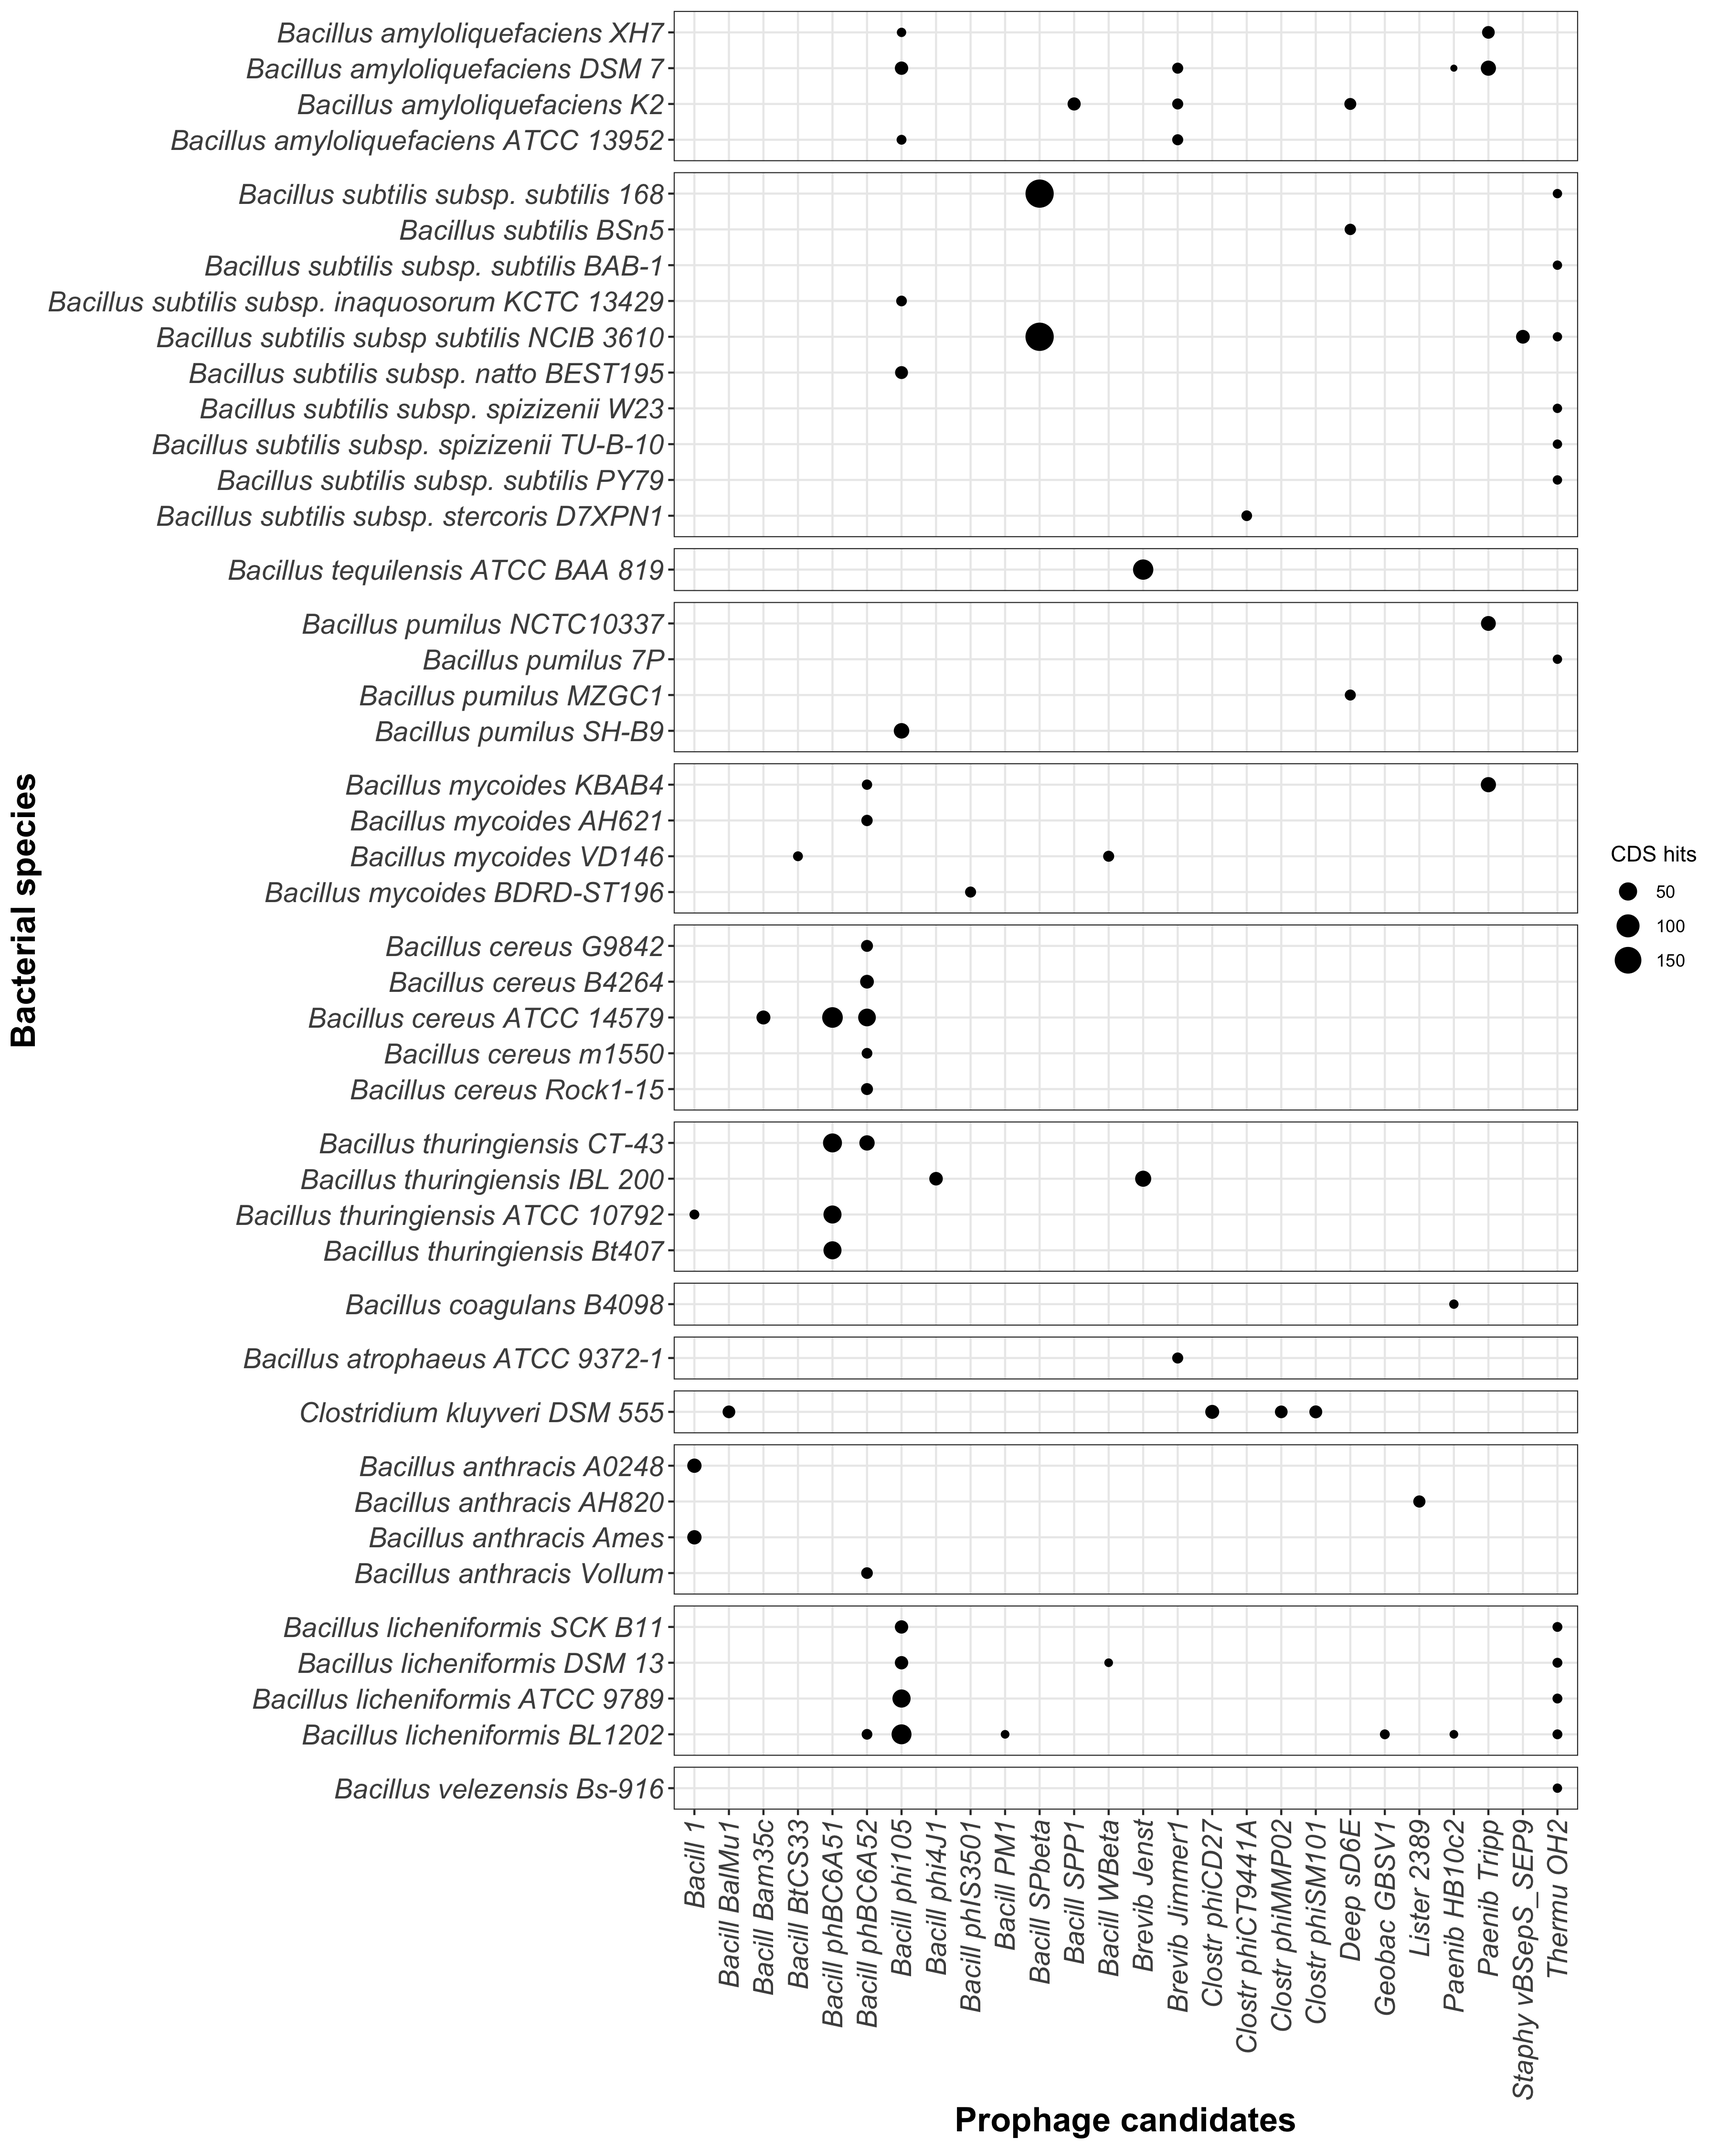
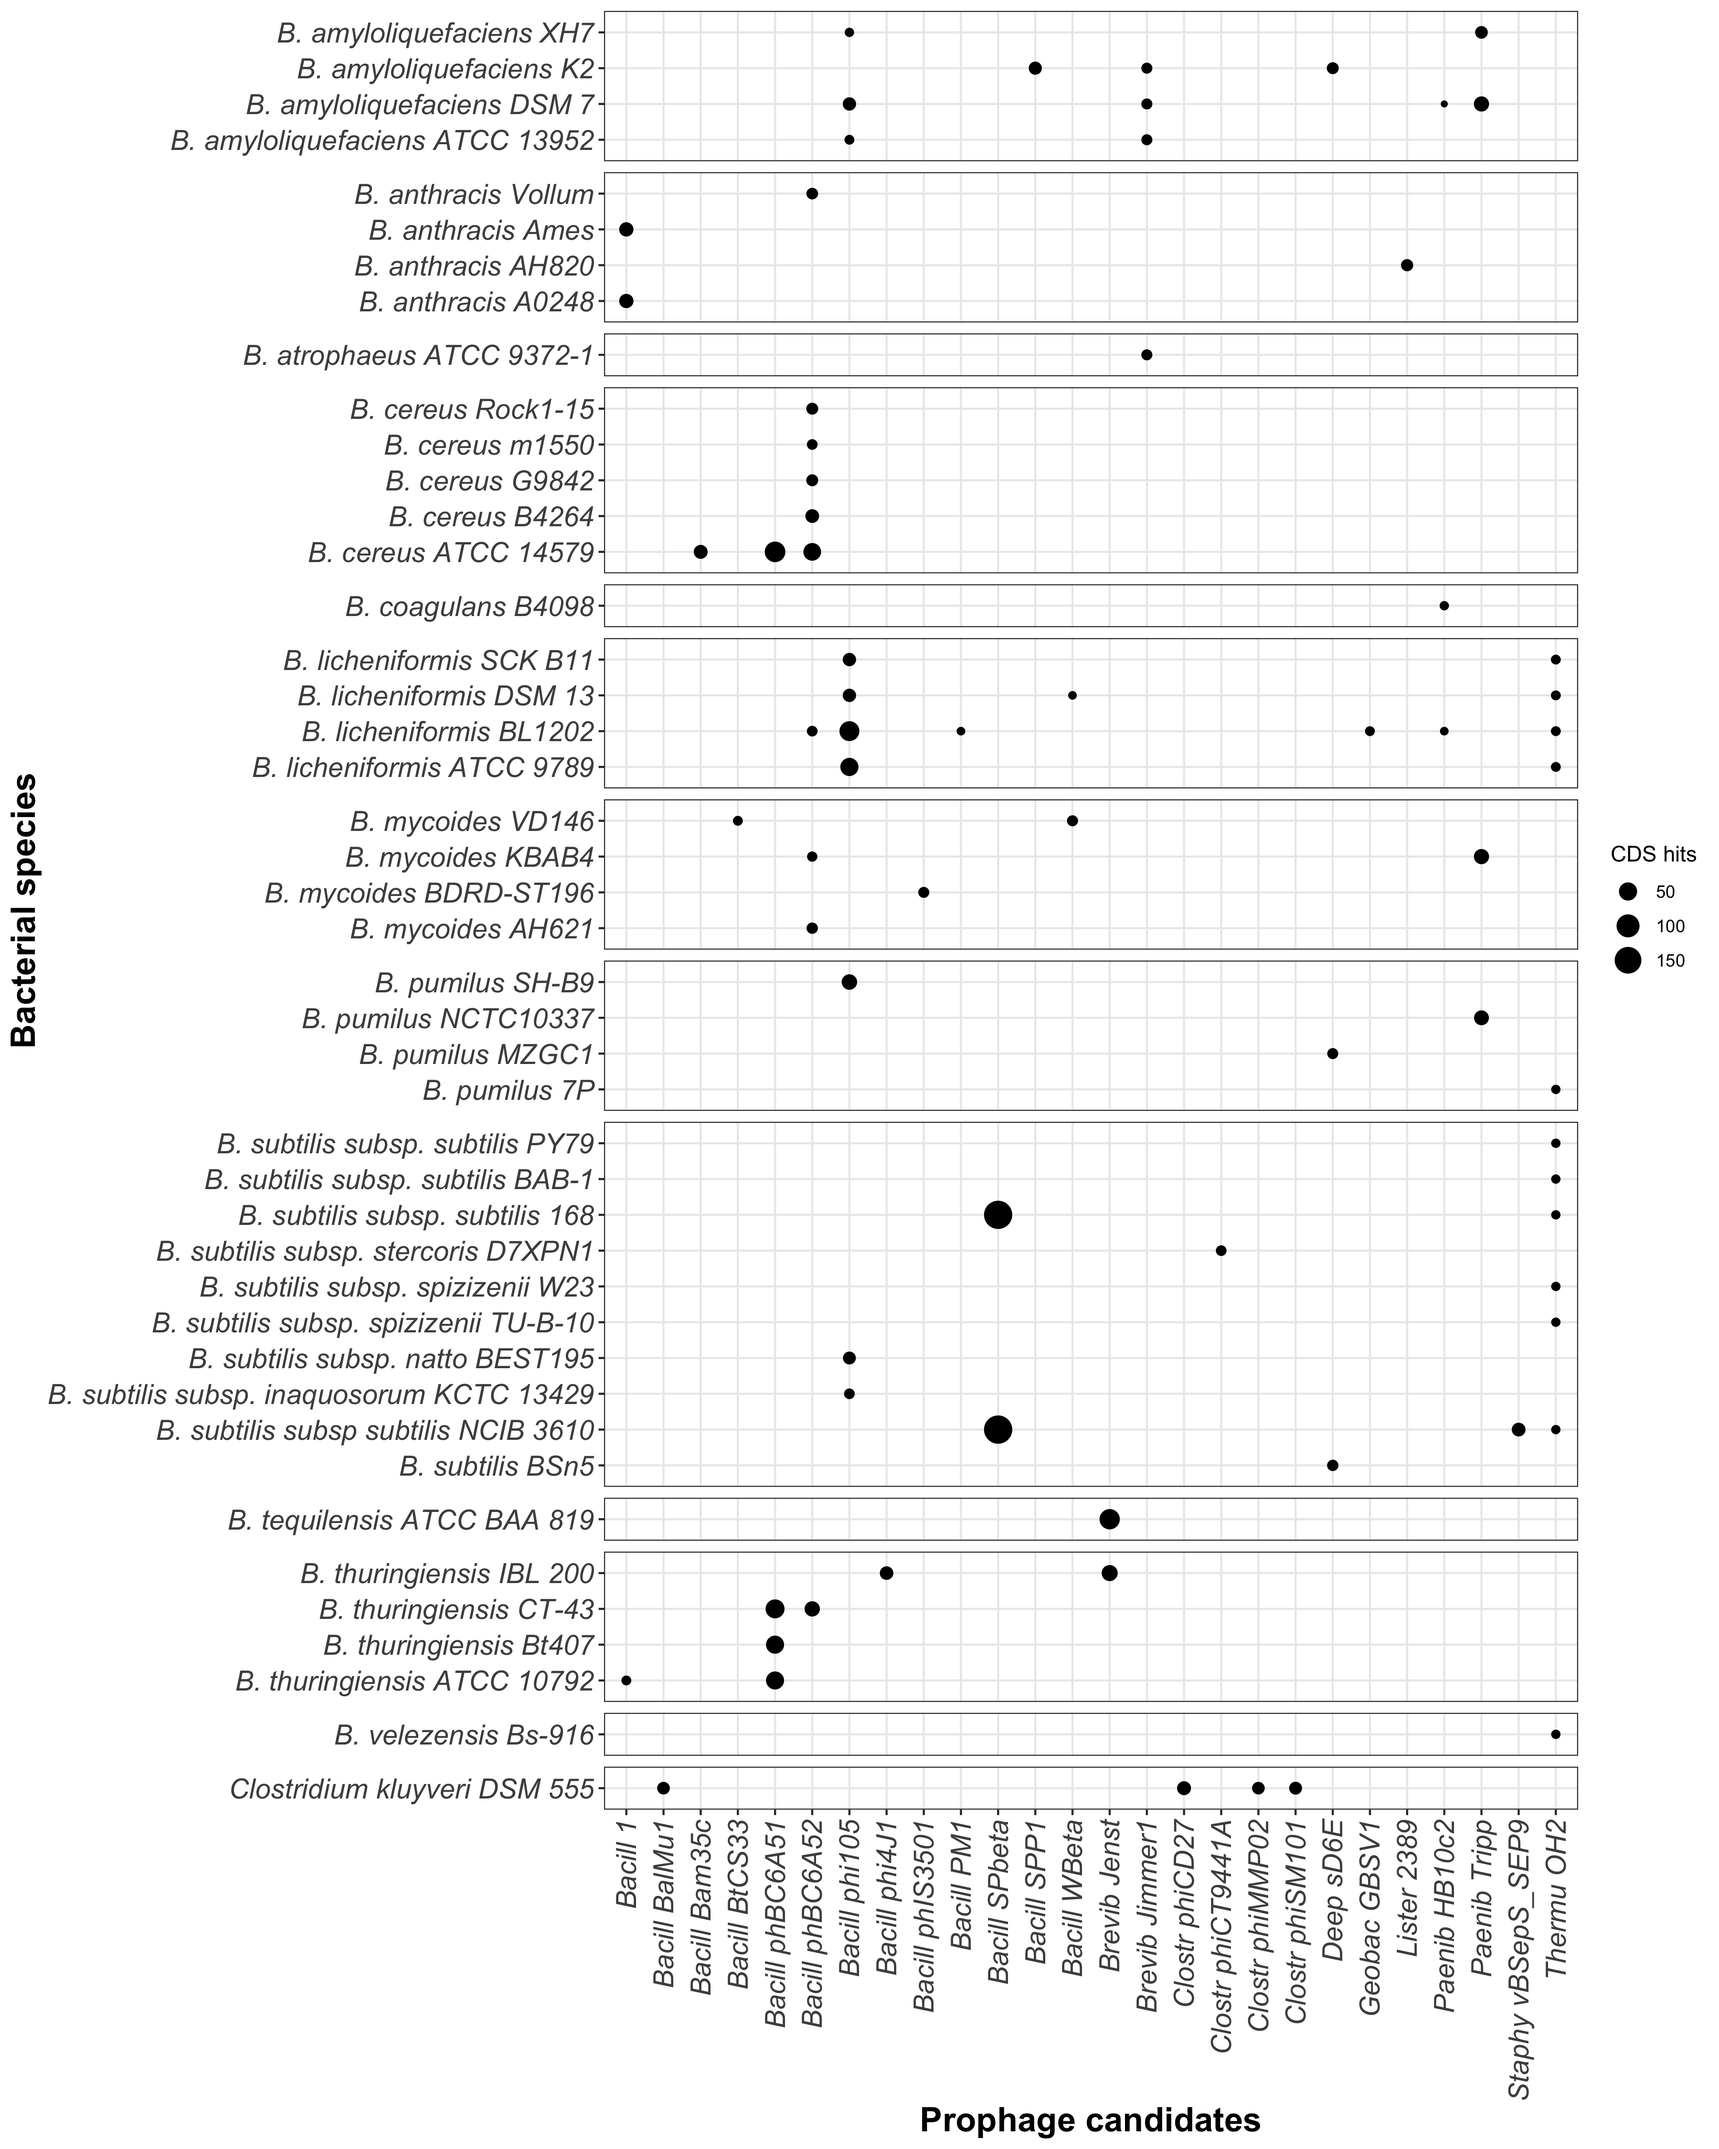
Adding intact phages data frame and bubbleplot

diff --git a/README.md b/README.md
@@ -116,9 +116,9 @@ kable(intact_phages[1:5,])
 | B. amyloliquefaciens DSM 7      | Bacill phi105  | 6      |   140 | 004167        |         6 | amyloliquefaciens |
 | B. amyloliquefaciens DSM 7      | Bacill phi105  | 7      |   130 | 004167        |         9 | amyloliquefaciens |
 
-``` r
-mycolors <- colorRampPalette(brewer.pal(8, "Dark2"))(26)
+-----
 
+``` r
 intact_phages %>%
   as_tibble() %>%
   mutate(Species = species) %>%
@@ -130,12 +130,11 @@ intact_phages %>%
   geom_point() +
   facet_grid(rows = vars(Epithet), scales = "free", space = "free") +
   theme_bw() +
-  scale_color_manual(values = mycolors) +
   theme(axis.text.x = element_text(angle = 90, vjust = 0.5, hjust = 1, size = 14, face = "italic"),
         axis.text.y = element_text(size = 14, face = "italic"),
         axis.title.x = element_text(size = 17, face = "bold"),
         axis.title.y = element_text(size = 17, face = "bold"),
-        strip.background = element_blank(),#element_rect(fill = "#EEEEEE", color = "#FFFFFF"),
+        strip.background = element_blank(),
         strip.text = element_blank(),
         legend.position = "right"
         ) +
